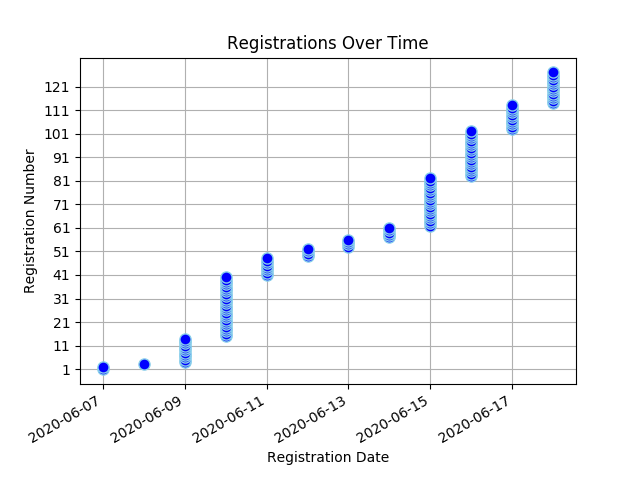
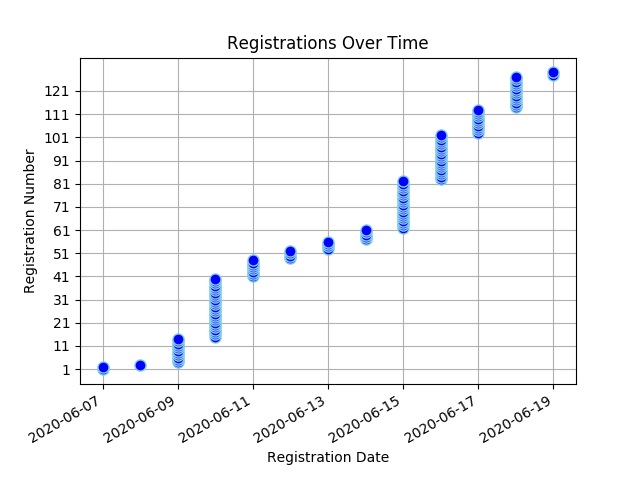
Registree stats backup on Fri Jun 19 08:52:45 SAST 2020

diff --git a/content/virtual_conf_stats/_index.md b/content/virtual_conf_stats/_index.md
@@ -16,7 +16,7 @@ draft: false
 </head>
 <body>
 <h1 style="color: #000000;">Virtual Convention Registration Stats</h1>
-<ul><li><strong>Number of Registrees</strong>: 127</li>
+<ul><li><strong>Number of Registrees</strong>: 129</li>
 </ul><a href="/docs/virtual_convention_stats.csv">Download registration details here</a>
 <h2>Registrees</h2>
 <table id="registreeTable" class="tablesorter" border="1" padding=1>
@@ -55,6 +55,7 @@ Club
 <tr><td>graham, mike</td><td>Nelspruit</td></tr>
 <tr><td>Graham, Valerie</td><td>Nelspruit</td></tr>
 <tr><td>Grater, Viv</td><td>Newlands</td></tr>
+<tr><td>Gray, Brian</td><td>Durbanville</td></tr>
 <tr><td>Griffith, David</td><td>The Wilds</td></tr>
 <tr><td>Harris, Washiela</td><td>Mitchell's Plain Lions Club</td></tr>
 <tr><td>Haywood, Barbara</td><td>Eden 410W</td></tr>
@@ -81,6 +82,7 @@ Club
 <tr><td>Lamont, Margaret</td><td>Klerksdorp</td></tr>
 <tr><td>Lang, James</td><td>The Lions Club of Gordon's Bay</td></tr>
 <tr><td>Lang, Paula</td><td>Gordons Bay</td></tr>
+<tr><td>Laubscher, Herman</td><td>Ceres</td></tr>
 <tr><td>le Roux, Jeanette</td><td>GONUBIE</td></tr>
 <tr><td>Love, Dee</td><td>Cowies Hill</td></tr>
 <tr><td>MACROBERT, PAM</td><td>LIONS CLUB OF GROOTE SCHUUR</td></tr>
